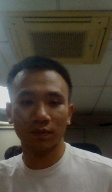
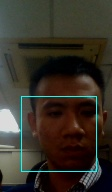
cap nhat thoi gian cho giua 2 lan nhan dien

diff --git a/CameraAndFaceRecognition/CameraAndFaceRecognition.py b/CameraAndFaceRecognition/CameraAndFaceRecognition.py
@@ -6,14 +6,17 @@ from   PyQt5.QtGui      import QPixmap,QColor
 from   PyQt5            import QtCore, QtGui
 import time
 
-
 Camera_Number = 0
 Camera_Object = cv2.VideoCapture(Camera_Number)
 frame = False
 FaceLocationInImage = False
+NumberFrameNotFace = 0
+
 class GetImageFromCamera(QObject):
     CanNotConnectCamera = pyqtSignal()
     PixmapFromCamera = pyqtSignal(QPixmap)
+    SignalHideCamera = pyqtSignal()
+
     def __init__(self, frameCut = ((180, 460), (0, 480)), size = (300, 300), scale = 0.4, time = 50, labelObject = ""):
         super().__init__()
         self.cameraObj = Camera_Object
@@ -33,8 +36,12 @@ class GetImageFromCamera(QObject):
     def __GetImageFromCamera(self):
         global frame
         global FaceLocationInImage
+        global NumberFrameNotFace
         # while True:
         ret, frame = self.cameraObj.read()
+        if(NumberFrameNotFace == 2):
+            # self.SignalHideCamera.emit()
+            return
         if(not ret):
             self.CanNotConnectCamera.emit()
             time.sleep(1000)
@@ -83,7 +90,6 @@ class FaceRecognition(QObject):
         self.cameraObj = Camera_Object 
         self.timerForFaceRecognition = QTimer(self)
         self.timerForFaceRecognition.timeout.connect(self.__StartThreadFaceRecognize)
-        self.faceStill = False
         self.imageDetectFace = ""
         self.FRthreshold = 0.4
         self.timerFaceTracking = QTimer(self)
@@ -114,7 +120,7 @@ class FaceRecognition(QObject):
         threadFaceRecognize = threading.Thread(target = self.FaceRecognition, args=(), daemon = True)
         threadFaceRecognize.start()
 
-
+    
     def __DetectFaceInImage(self, image):
         faceLocInImage = face_recognition.face_locations(image)
         if(len(faceLocInImage) == 0):
@@ -126,6 +132,7 @@ class FaceRecognition(QObject):
     def FaceTracking(self):
         global frame
         global FaceLocationInImage
+        global NumberFrameNotFace
         if(type(frame) is bool):
             return
         localFrame = frame
@@ -133,9 +140,11 @@ class FaceRecognition(QObject):
         FaceLocationInImage = self.__DetectFaceInImage(localFrame)
 
         if(type(FaceLocationInImage) is bool):
-            self.faceStill = False
-        elif(len(FaceLocationInImage) != 1):
-            self.faceStill = False
+            if(NumberFrameNotFace < 2):
+                NumberFrameNotFace += 1
+            return
+        NumberFrameNotFace = 0
+        
         # self.FaceRecognition()
 
     def __FaceRecognition(self, image):
@@ -159,7 +168,6 @@ class FaceRecognition(QObject):
                     ret, jpgData = cv2.imencode(".jpg", image)
                     jpgData = jpgData.tobytes()
                     self.StudentRecognized.emit(student, jpgData)
-                    self.faceStill = True
                     print(i)
                     return True
         
@@ -167,9 +175,6 @@ class FaceRecognition(QObject):
         
     def FaceRecognition(self):
         global frame
-        
-        if(self.faceStill):
-            return
         localFrame = frame
         #rgb_small_frame = localFrame[:, :, ::-1]
         self.__FaceRecognition(localFrame)

diff --git a/Main.py b/Main.py
@@ -19,7 +19,7 @@ import       os
 class MainWindow(QMainWindow):
     def __init__(self):
         super().__init__()
-
+        self.HideCameraPixmap = QtGui.QPixmap("icon/imageFaceRecognition.png")
         self.mainScreenObj = MainScreen(self)
         self.cameraObj = GetImageFromCamera(labelObject= self.mainScreenObj.label_showCamera)
         self.lstStudent = GetDataFromDatabase().GetListStudent()
@@ -41,6 +41,7 @@ class MainWindow(QMainWindow):
         self.cameraObj.PixmapFromCamera.connect(self.__ShowImageFromCamera)
         self.cameraObj.CanNotConnectCamera.connect(self.mainScreenObj.ShowCanNotConnectCamera)
         self.cameraObj.StartReadImage()
+        self.cameraObj.SignalHideCamera.connect(self.__HideCamera)
 
         self.faceRecognitionObj.StudentRecognized.connect(self.__RecognizedStudent)
         self.faceRecognitionObj.StudentNotRecognized.connect(self.__NotRecognized)
@@ -58,8 +59,21 @@ class MainWindow(QMainWindow):
         self.socketObject.SignalWaitForUpdateDatabase.connect(self.WaitForUpdateDatabase)
         self.socketObject.SignalUpdateDatabaseSuccess.connect(self.UpdateDatabaseSuccess)
         self.socketObject.SignalNumberStudentParsed.connect(self.NumberStudentParsed)
-    
+
 #endregion
+        self.timerReopenReadCam = QTimer(self)
+        self.timerReopenReadCam.timeout.connect(self.__ReopenReadCamera)
+
+    def __ReopenReadCamera(self):
+        self.mainScreenObj.ClearStudentRecognizedInfomation()
+        self.cameraObj.StartReadImage()
+        self.faceRecognitionObj.StartFaceRecognize()
+        self.faceRecognitionObj.StartFaceTracking()
+        self.timerReopenReadCam.stop()
+    
+
+    def __HideCamera(self):
+        self.mainScreenObj.label_showCamera.setPixmap(self.HideCameraPixmap)
 
     def __ModifyImageQuality(self, quality):
         print(quality)
@@ -78,7 +92,7 @@ class MainWindow(QMainWindow):
         self.lstStudent.extend(listStudents)
         self.faceRecognitionObj.StartFaceRecognize()
         self.cameraObj.StartReadImage()
-        self.mainScreenObj.HideUpdateScreen()
+        self.mainScreenObj.fateScreen()
 
     def WaitForUpdateDatabase(self, filePath):
         self.faceRecognitionObj.StopFaceRecognize()
@@ -117,6 +131,12 @@ class MainWindow(QMainWindow):
                 return
                 
     def __RecognizedStudent(self, studentObj, faceImageJpgData):
+        self.cameraObj.StopReadImage()
+        self.faceRecognitionObj.StopFaceTracking()
+        self.faceRecognitionObj.StopFaceRecognize()
+        self.__HideCamera()
+        self.timerReopenReadCam.start(1500)
+
         if(self.settingFindOrConfirmStudent == "C"):
             # self.soundObj.ThreadPlayBipBipBip()
             # self.soundObj.ThreadPlayMoiTSlenXe()

diff --git a/MainScreen/MainScreen.py b/MainScreen/MainScreen.py
@@ -38,7 +38,7 @@ class MainScreen(QObject, Ui_Frame_MainScreen):
         self.pixmapOkIcon = QtGui.QPixmap("icon/iconOk.png")
         self.pixmapFailIcon = QtGui.QPixmap("icon/iconFail.png")
         self.pixmapWarningIcon = QtGui.QPixmap("icon/iconWarning.png")
-
+        self.pixmapNotRecognized = QtGui.QPixmap("icon/iconImageRepresent.png")
         icon = QtGui.QIcon()
         icon.addPixmap(QtGui.QPixmap("icon/iconShutdown.png"), QtGui.QIcon.Normal, QtGui.QIcon.Off)
         self.pushButton_shutdown.setIcon(icon)
@@ -47,6 +47,7 @@ class MainScreen(QObject, Ui_Frame_MainScreen):
         self.label_7.mouseDoubleClickEvent = lambda event: self.__OpenOutdoor()
         self.timerFlickerWarning = QTimer(self)
         self.timerFlickerWarning.timeout.connect(self.__FlickerWarning)
+    
 
     def __OpenOutdoor(self):
         self.outdoorScreenShadow = QtWidgets.QFrame(self.centralWidget)
@@ -98,7 +99,10 @@ class MainScreen(QObject, Ui_Frame_MainScreen):
         self.label_forShowName.setText(student.HoVaTen.upper())
         self.label_forShowNumberCard.setText(student.SBD)
         self.label_forShowIdentNumber.setText(student.SoCMTND)
-        
+    
+    def ClearStudentRecognizedInfomation(self):
+        self.label_regisImage.setPixmap(self.pixmapNotRecognized)
+        self.label_forShowName.setText("Chưa nhận được thí sinh")
 
     def SetGeometryForLabelShowCamera(self, cameraWidth, cameraHeight):
         x = (self.frame_containLabelShowCamera.width() - cameraWidth)/2
@@ -139,7 +143,7 @@ class MainScreen(QObject, Ui_Frame_MainScreen):
         self.updateScreenObj = UpdateScreen(self.frameUpdateScreen, filePath)
         self.updateSettingShadow.raise_()
         self.updateSettingShadow.show()
-
+    
     def ShowSettingScreen(self):
         self.settingScreenShadow = QtWidgets.QFrame(self.centralWidget)
         self.settingScreenShadow.setGeometry(QtCore.QRect(0, 0, 800, 480))

diff --git a/SocketConnect/SocketClient.py b/SocketConnect/SocketClient.py
@@ -252,6 +252,7 @@ class SocketClient(QObject):
     
     def __ConvertJsonStringToByteArr(self, jsonString):
         jsonCharArr = []
+        jsonString = jsonString + "\n"
         for i in range(0, len(jsonString)):
             jsonCharArr.append(ord(jsonString[i]))
         return bytes(jsonCharArr)
@@ -262,7 +263,7 @@ class SocketClient(QObject):
     def SendResultsFaceRecognize(self, ID ,confirmTrueOrFalse, nameOfPhotoTaked):
         resultFrame = self.__ConvertJsonStringToByteArr(self.__BuildResultToSend(ID))
         self.__SendDataViaSocket(bytes(resultFrame))
-        self.ftpObj.SendImageToFTPserver(nameOfPhotoTaked, FTP_FILE_PATH_TO_UPLOAD + str(ID) + ".jpg")
+        self.ftpObj.SendImageToFTPserver(nameOfPhotoTaked, FTP_FILE_PATH_TO_UPLOAD +"/"+ datetime.now().strftime("%Y%m%d") + '/' + str(ID)+"_"+datetime.now().strftime("%H%M%S")+ ".jpg")
 
 #endregion
     

diff --git a/test.py b/test.py
@@ -53,17 +53,18 @@ def ConvertStringToByteArray(string):
 # x.extend([3,4,5])
 # print(x)
 
-dictData = {
-    "cardNumber":2,
-    "time":datetime.now().strftime("%d/%m/%Y %H:%M:%S"),
-    "imageLength":0
-}
-dictToSend = {
-    "success":"true",
-    "code":2,
-    "massage":"",
-    "checksum":0,
-    "data":dictData
-}
-print(json.dumps(dictToSend))
+# dictData = {
+#     "cardNumber":2,
+#     "time":datetime.now().strftime("%d/%m/%Y %H:%M:%S"),
+#     "imageLength":0
+# }
+# dictToSend = {
+#     "success":"true",
+#     "code":2,
+#     "massage":"",
+#     "checksum":0,
+#     "data":dictData
+# }
+# print(json.dumps(dictToSend))
 
+print(datetime.now().strftime("%d_%m_%Y"))

diff --git a/testCamera.py b/testCamera.py
@@ -1,0 +1,20 @@
+import numpy as np
+import cv2
+
+cap = cv2.VideoCapture(0)
+
+while(True):
+    # Capture frame-by-frame
+    ret, frame = cap.read()
+
+    # Our operations on the frame come here
+    # gray = cv2.cvtColor(frame, cv2.COLOR_BGR2GRAY)
+
+    # Display the resulting frame
+    cv2.imshow('frame',frame)
+    if cv2.waitKey(1) & 0xFF == ord('q'):
+        break
+
+# When everything done, release the capture
+cap.release()
+cv2.destroyAllWindows()

diff --git a/SocketConnect/FTPclient.py b/SocketConnect/FTPclient.py
@@ -47,7 +47,7 @@ class FTPclient(QObject):
             self.ftpObj.login(FTP_ACCOUNT, FTP_PASSWORD)
             return True
 
-        except:
+        except NameError:
             return False
 
     def GetListStudentImage(self, fileDir):
